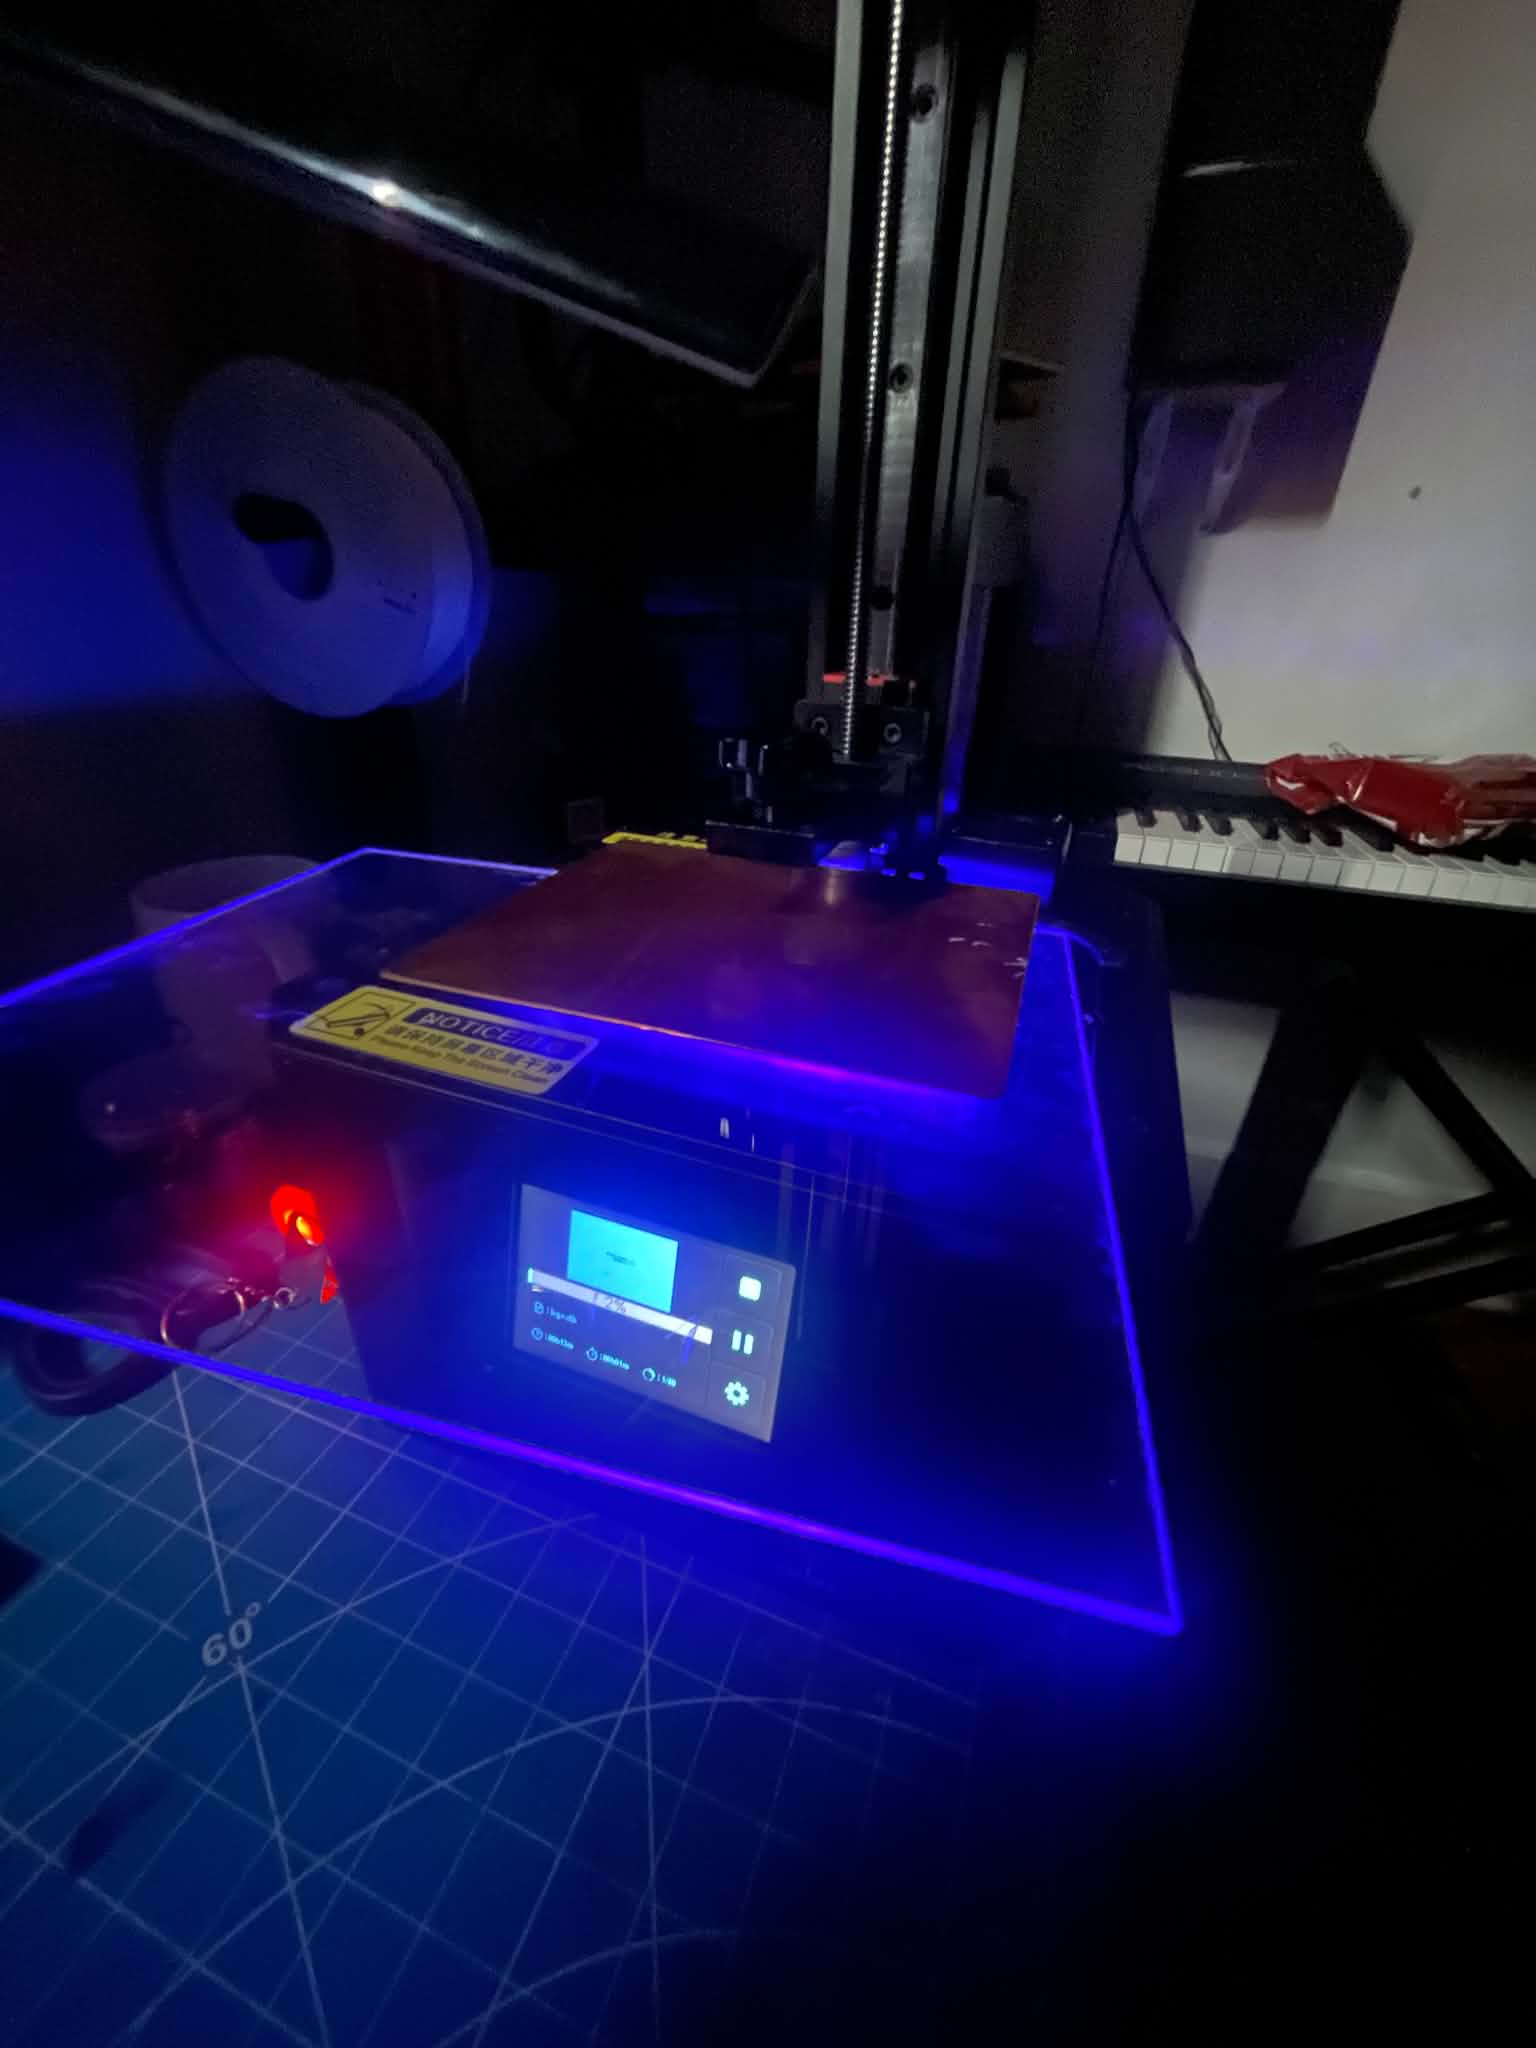
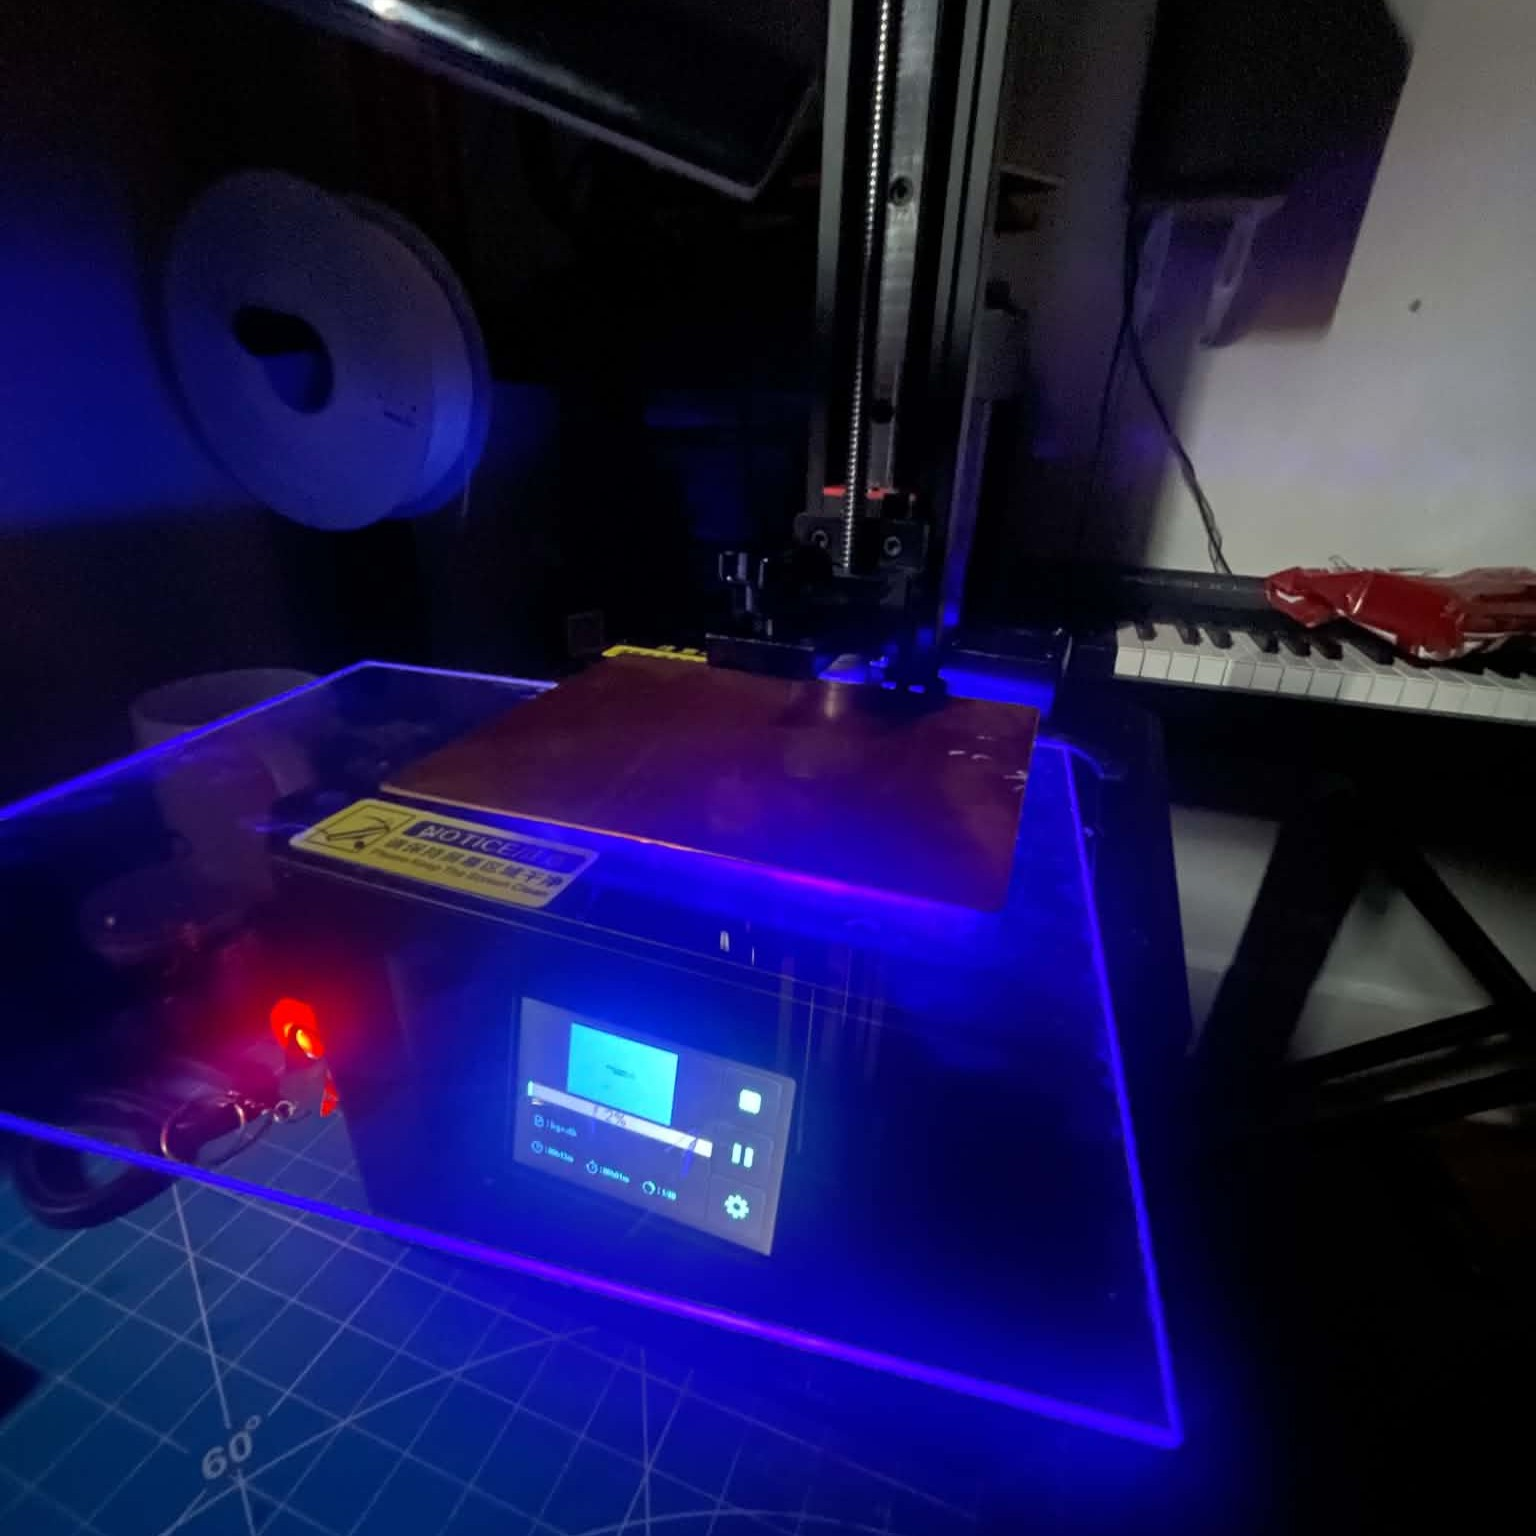
Add serigraphie SLA images and log entry
Add several new images (5.png, 6.jpg, 7.jpg, 8.jpg, 9.jpg) and replace/modify existing images (1.jpg, 2.jpg, 4.jpg). Significantly update explorations/serigraphie/serigraphie.html: change title to “Sérigraphie SLA”, switch content to a personal log-style entry (14 July 2026) with a detailed procedure, YouTube reference, multiple image grids with captions, and a structured card layout. Removed older maquette sections and legacy image gallery in favor of the new log format and attachments. Content focuses on a DIY method using an SLA printer screen as an exposure source and documents results and next steps.

diff --git a/explorations/serigraphie/serigraphie.html b/explorations/serigraphie/serigraphie.html
@@ -28,100 +28,203 @@
 
                 <div class="col-lg-6 col-md-12">
                     <div class="w-100 p-4">
-                        <h1 class="m2">Sérigraphie</h1>
-                        <p class="text-secondary"><small>Dans le cadre de l’atelier de maquettes architecturales (DES5633) du chargé de cours Randy Cohen. En équipe avec Mélinda Breton-Couture et Arnaud Guillaumond.</small></p>
-                        <p>L’atelier propose l’exercice de donner à nos mains le contrôle sur la création. La maquette devient alors bien plus qu’une simple ébauche architecturale, mais un fil conducteur entre les cerveaux de trois coéquipiers et un laboratoire d’idées où la matière génère des lieux.</p>
-                    </div>
-                </div>
-
-            </div>
-            <div class="row gx-0 mt-5">
-
-                <div class="col-md-6 col-lg-3 col-sm-12 square">
-                    <img class="p-2" src="3.webp" alt="" width="100%" height="100%" style="object-fit: cover;">
-                    <div class="project-info">
-                        <p class="project-small-info">Objet conceptuel 1</p>
-                    </div>
-                </div>
-
-                <div class="col-md-6 col-lg-3 col-sm-12 square">
-                    <img class="p-2" src="6.webp" alt="" width="100%" height="100%" style="object-fit: cover;">
-                    <div class="project-info">
-                        <p class="project-small-info">Objet conceptuel 2</p>
-                    </div>
-                </div>
-
-                <div class="col-md-6 col-lg-3 col-sm-12 square">
-                    <img class="p-2" src="4.webp" alt="" width="100%" height="100%" style="object-fit: cover;">
-                    <div class="project-info">
-                        <p class="project-small-info">Test d'oxidation du cuivre</p>
-                    </div>
-                </div>
-
-                <div class="col-md-6 col-lg-3 col-sm-12 square">
-                    <img class="p-2" src="5.webp" alt="" width="100%" height="100%" style="object-fit: cover;">
-                    <div class="project-info">
-                        <p class="project-small-info">Échantillon de cuivre ondulé</p>
+                        <h1 class="m2">Sérigraphie SLA</h1>
+                        <p class="text-secondary"><small>Exploration personelle</small></p>
+                        <p>Mon idée est de détourner l'écran LCD UV de mon imprimante résine pour l'utiliser comme une insoleuse de table ultra-précise. En appliquant une émulsion photosensible sur ma toile de sérigraphie et en la posant directement sur l'écran qui affiche mon logo, le puissant rétroéclairage UV va durcir l'émulsion avec une netteté microscopique. C'est une technique DIY redoutable pour obtenir un pochoir parfait sans équipement d'insolation coûteux, idéale pour marquer proprement le logo de ma compagnie, *The Simple Wallet Company*, sur mes portefeuilles.</p>
                     </div>
                 </div>
 
             </div>
 
-            <!-- LA MAQUETTE -->
-            <div class="mt-5 row align-items-center gx-0">
-                <div class="col-md-12 col-lg-5 square">
-                    <img class="p-2" src="2.webp" alt="" width="100%" height="100%" style="object-fit: cover;">
+            
+
+            <!-- Outlined Logbook Entry Component with Image Labels -->
+                <div class="mt-4 card border border-2 border-secondary-subtle rounded-3">
+                
+                <!-- Card Header -->
+                <div class="card-header bg-transparent border-bottom border-2 border-secondary-subtle d-flex justify-content-between align-items-center py-3">
+                    <div class="d-flex align-items-center gap-2">
+                    <!-- Calendar Icon -->
+                    <svg xmlns="http://www.w3.org/2000/svg" width="16" height="16" fill="currentColor" class="bi bi-calendar-event text-secondary" viewBox="0 0 16 16">
+                        <path d="M11 6.5a.5.5 0 0 1 .5-.5h1a.5.5 0 0 1 .5.5v1a.5.5 0 0 1-.5.5h-1a.5.5 0 0 1-.5-.5z"/>
+                        <path d="M3.5 0a.5.5 0 0 1 .5.5V1h8V.5a.5.5 0 0 1 1 0V1h1a2 2 0 0 1 2 2v11a2 2 0 0 1-2 2H2a2 2 0 0 1-2-2V3a2 2 0 0 1 2-2h1V.5a.5.5 0 0 1 .5-.5M1 4v10a1 1 0 0 0 1 1h12a1 1 0 0 0 1-1V4z"/>
+                    </svg>
+                    <span class="fw-bold text-secondary">14 Juillet 2026</span>
+                    </div>
                 </div>
 
-                <div class="col-md-12 col-lg-7">
-                    <div class="w-100 p-5">
-                        <h3 class="m2">La maquette</h3>
-                        <p>Ni œuvre d'art ni version miniature d'un bâtiment, la maquette est un personnage qui parle parfois de manière abstraite. On peut lui poser des questions, ou on peut observer et imaginer ce qu'elle semble dire. Parlez-y de matières, de l'espace, ou de la nature. Elle répondra.</p>
+                <!-- Card Body -->
+                <div class="card-body p-4">
+                    <!-- Log Title -->
+                    <h4 class="card-title mb-3 fw-bold text-dark">Premier Prototype</h4>
+                    
+                    <!-- Main Log Text -->
+                    <p class="card-text text-muted mb-4">
+                    Voici le projet qui m'a inspiré à explorer la sérigraphie SLA. J'ai été fasciné par la précision et la netteté des pochoirs obtenus grâce à cette technique:
+                    </p>
+
+                    <a href="https://www.youtube.com/watch?v=Q3tYcRxLUs0" target="_blank" class="btn btn-outline-primary mb-3">https://www.youtube.com/watch?v=Q3tYcRxLUs0</a>
+
+                    <p class="card-text text-muted mb-4">
+                    J'ai rapidement modélisé mon propre cadre pour tendre ma toile de sérigraphie, et j'ai utilisé mon imprimante 3D pour créer un prototype fonctionnel. La soie que j'utilise est de calibre 200.
+                    </p>
+
+                    <!-- Outlined Divider -->
+                    <hr class="border-secondary-subtle my-4">
+
+                    <!-- Outlined Image Attachments Grid -->
+                    <div class="mb-4">
+                        <div class="row g-3">
+
+                            <!-- Image 2 -->
+                            <div class="col-12 col-sm-4">
+                            <div class="ratio ratio-1x1 rounded border border-secondary-subtle overflow-hidden mb-1">
+                                <img src="5.png" 
+                                    alt="Log Attachment" 
+                                    style="object-fit: cover; transition: opacity 0.2s;" 
+                                    class="img-fluid"
+                                    onmouseover="this.style.opacity='0.85'"
+                                    onmouseout="this.style.opacity='1'" />
+                            </div>
+                            <!-- Small Print Caption -->
+                            <small class="text-muted d-block text-center" style="font-size: 0.75rem;">Modèle 3D fait dans Fusion 360</small>
+                            </div>
+                            
+                            <!-- Image 1 -->
+                            <div class="col-12 col-sm-4">
+                            <div class="ratio ratio-1x1 rounded border border-secondary-subtle overflow-hidden mb-1">
+                                <img src="1.jpg" 
+                                    alt="Log Attachment" 
+                                    style="object-fit: cover; transition: opacity 0.2s;" 
+                                    class="img-fluid"
+                                    onmouseover="this.style.opacity='0.85'"
+                                    onmouseout="this.style.opacity='1'" />
+                            </div>
+                            <!-- Small Print Caption -->
+                            <small class="text-muted d-block text-center" style="font-size: 0.75rem;">Premier prototype imprimé en PLA</small>
+                            </div>
+
+                        </div>
                     </div>
+
+                    <hr class="border-secondary-subtle my-4">
+
+                    <p class="card-text text-muted">
+                    Après avoir appliqué l'émulsion sur ma toile, et après avoir attendu que celle-ci soit sèche, je l'ai posée sur l'écran de mon imprimante et exposée à la lumière UV en faisant attenttion de mettre une feuille de plastique protectrice entre l'écran et l'émulsion pour éviter de l'endommager. Le temps d'exposition était de 50 secondes, mais je pense que j'aurais dû l'exposer plus longtemps.
+                    </p>
+
+                    <hr class="border-secondary-subtle my-4">
+
+                    <!-- Outlined Image Attachments Grid -->
+                    <div class="mb-4">
+                        <div class="row g-3">
+
+                            <div class="col-12 col-sm-4">
+                            <div class="ratio ratio-1x1 rounded border border-secondary-subtle overflow-hidden mb-1">
+                                <img src="3.jpg" 
+                                    alt="Log Attachment" 
+                                    style="object-fit: cover; transition: opacity 0.2s;" 
+                                    class="img-fluid"
+                                    onmouseover="this.style.opacity='0.85'"
+                                    onmouseout="this.style.opacity='1'" />
+                            </div>
+                            <!-- Small Print Caption -->
+                            <small class="text-muted d-block text-center" style="font-size: 0.75rem;">J'ai ajouté une plaque de cuivre sur la toile pour améliorer le contact</small>
+                            </div>
+                            
+                            <div class="col-12 col-sm-4">
+                            <div class="ratio ratio-1x1 rounded border border-secondary-subtle overflow-hidden mb-1">
+                                <img src="4.jpg" 
+                                    alt="Log Attachment" 
+                                    style="object-fit: cover; transition: opacity 0.2s;" 
+                                    class="img-fluid"
+                                    onmouseover="this.style.opacity='0.85'"
+                                    onmouseout="this.style.opacity='1'" />
+                            </div>
+                            <!-- Small Print Caption -->
+                            <small class="text-muted d-block text-center" style="font-size: 0.75rem;">Exposition à la lumière UV</small>
+                            </div>
+
+                            <div class="col-12 col-sm-4">
+                            <div class="ratio ratio-1x1 rounded border border-secondary-subtle overflow-hidden mb-1">
+                                <img src="9.jpg" 
+                                    alt="Log Attachment" 
+                                    style="object-fit: cover; transition: opacity 0.2s;" 
+                                    class="img-fluid"
+                                    onmouseover="this.style.opacity='0.85'"
+                                    onmouseout="this.style.opacity='1'" />
+                            </div>
+                            <!-- Small Print Caption -->
+                            <small class="text-muted d-block text-center" style="font-size: 0.75rem;">Remarquez qu'il faut préparer l'impression pour exposer toute la toile à l'exception de la zone où il y a le logo</small>
+                            </div>
+
+                        </div>
+                    </div>
+
+                    <hr class="border-secondary-subtle my-4">
+
+                    <p class="card-text text-muted">
+                    J'ai ensuite lavé la toile avec de l'eau pour enlever l'émulsion non durcie. Le résultat n'est pas extraordinaire, mais il prouve que la technique fonctionne. Il me reste à améliorer l'uniformité lorsque j'applique l'émulsion sur la toile, et à trouver le temps d'exposition idéal.
+                    </p>
+
+                    <hr class="border-secondary-subtle my-4">
+
+                    <!-- Outlined Image Attachments Grid -->
+                    <div class="mb-4">
+                        <div class="row g-3">
+
+                            <div class="col-12 col-sm-4">
+                            <div class="ratio ratio-1x1 rounded border border-secondary-subtle overflow-hidden mb-1">
+                                <img src="6.jpg" 
+                                    alt="Log Attachment" 
+                                    style="object-fit: cover; transition: opacity 0.2s;" 
+                                    class="img-fluid"
+                                    onmouseover="this.style.opacity='0.85'"
+                                    onmouseout="this.style.opacity='1'" />
+                            </div>
+                            <!-- Small Print Caption -->
+                            <small class="text-muted d-block text-center" style="font-size: 0.75rem;">On remarque que l'émulsion n'est pas uniforme, et l'exposition à la lumière UV n'est pas suffisante</small>
+                            </div>
+
+                            <div class="col-12 col-sm-4">
+                            <div class="ratio ratio-1x1 rounded border border-secondary-subtle overflow-hidden mb-1">
+                                <img src="7.jpg" 
+                                    alt="Log Attachment" 
+                                    style="object-fit: cover; transition: opacity 0.2s;" 
+                                    class="img-fluid"
+                                    onmouseover="this.style.opacity='0.85'"
+                                    onmouseout="this.style.opacity='1'" />
+                            </div>
+                            <!-- Small Print Caption -->
+                            <small class="text-muted d-block text-center" style="font-size: 0.75rem;">Prêt pour étendre l'encre</small>
+                            </div>
+                            
+                            <div class="col-12 col-sm-4">
+                            <div class="ratio ratio-1x1 rounded border border-secondary-subtle overflow-hidden mb-1">
+                                <img src="8.jpg" 
+                                    alt="Log Attachment" 
+                                    style="object-fit: cover; transition: opacity 0.2s;" 
+                                    class="img-fluid"
+                                    onmouseover="this.style.opacity='0.85'"
+                                    onmouseout="this.style.opacity='1'" />
+                            </div>
+                            <!-- Small Print Caption -->
+                            <small class="text-muted d-block text-center" style="font-size: 0.75rem;">Résultat final (Peu lisible mais prometteur)</small>
+                            </div>
+
+                        </div>
+                    </div>
+
+                    <hr class="border-secondary-subtle my-4">
+                    
                 </div>
             </div>
 
-            <!-- DÉBUTER UNE MAQUETTE -->
-            <div class="mt-5 row align-items-center gx-0">
-                <div class="col-md-12 col-lg-5 square">
-                    <img class="p-2" src="8.webp" alt="" width="100%" height="100%" style="object-fit: cover;">
-                </div>
 
-                <div class="col-md-12 col-lg-7">
-                    <div class="w-100 p-5">
-                        <h3 class="m2">Débuter une maquette</h3>
-                        <p>On a commencé par construire un petit bloc en carton, qu'on a déposé sur un socle vide. Ensuite on en a construit un deuxième, qu'on a aussi déposé sur le socle. Ce dernier a démarré un débat par rapport à sa la localisation dans la maquette par rapport au premier. Il y avait maintenant un enjeu de relation entre ces deux blocs.</p>
-                    </div>
-                </div>
-            </div>
 
-            <!-- NÉGOCIATION -->
-            <div class="mt-5 row align-items-center gx-0">
-                <div class="col-md-12 col-lg-5 square">
-                    <img class="p-2" src="9.webp" alt="" width="100%" height="100%" style="object-fit: cover;">
-                </div>
 
-                <div class="col-md-12 col-lg-7">
-                    <div class="w-100 p-5">
-                        <h3 class="m2">Négocier l'espace</h3>
-                        <p>Le troisième bloc a déclenché un autre débat. Le degré de complexité était plus grand cette fois ; la présence de trois blocs sur le socle signifiait que chaque bloc devait entrer en dialogue avec deux autres blocs. Chaque autre bloc ajouté déclenchait à nouveau un conflit, et à chaque fois, la complexité augmentait.</p>
-                    </div>
-                </div>
-            </div>
 
-            <!-- HARMONIE -->
-            <div class="mt-5 row align-items-center gx-0">
-                <div class="col-md-12 col-lg-5 square">
-                    <img class="p-2" src="7.webp" alt="" width="100%" height="100%" style="object-fit: cover;">
-                </div>
 
-                <div class="col-md-12 col-lg-7">
-                    <div class="w-100 p-5">
-                        <h3 class="m2">Trouver l'harmonie</h3>
-                        <p>Un bloc peut créer de l'ombre pour les autres; il peut bloquer la circulation; il peut empêcher la fenestration des autres; il peut empêcher l'accès à une terrasse. Il a fallu beaucoup d'essais-erreur pour trouver une place pour tous ces blocs, et c'est pour ça que la maquette est tant utile dans la conceptualisation. Ce travail collaboratif n'aurait jamais pu être fait à l'ordinateur.</p>
-                    </div>
-                </div>
-            </div>
 
         </div>   
         <script src="../../javascripts/transition.js"></script>    